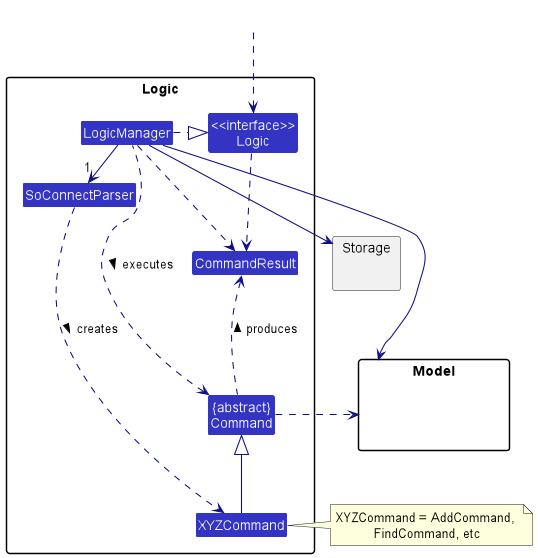
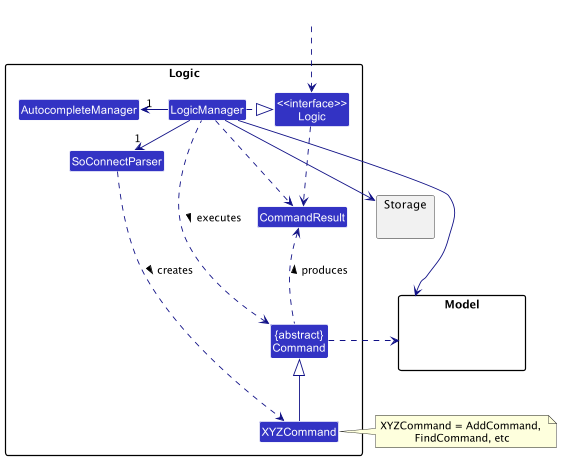
Update DG

diff --git a/docs/DeveloperGuide.md b/docs/DeveloperGuide.md
@@ -45,7 +45,7 @@ Given below is a quick overview of main components and how they interact with ea
 
 The rest of the App consists of four components:
 * [**`UI`**](#ui-component): The UI of the App.
-* [**`Logic`**](#logic-component): The command executor.
+* [**`Logic`**](#logic-component): The command executor and handles autocomplete.
 * [**`Model`**](#model-component): Holds the data of the App in memory.
 * [**`Storage`**](#storage-component): Handles reading and writing data to the hard disk.
 
@@ -82,7 +82,7 @@ The `UI` component does the following:
 * Executes user commands using the `Logic` component.
 * Listens for changes to `Model` data so that the UI can be updated with the modified data.
 * Keeps a reference to the `Logic` component, because the `UI` relies on the `Logic` to execute commands.
-* Depends on some classes in the `Model` component, as it displays `Person` object residing in the `Model`.
+* Depends on some classes in the `Model` component, as it displays `Person` and `Todo` objects residing in the `Model`.
 
 ### Logic component
 
@@ -114,6 +114,14 @@ How the parsing works:
 * When called upon to parse a user command, the `SoConnectParser` class creates an `XYZCommandParser` (`XYZ` is a placeholder for the specific command name e.g., `AddCommandParser`) which uses the other classes shown above to parse the user command and create a `XYZCommand` object (e.g., `AddCommand`) which the `SoConnectParser` returns back as a `Command` object.
 * All `XYZCommandParser` classes (e.g., `AddCommandParser`, `DeleteCommandParser`, etc.) inherit from the `Parser` interface so that they can be treated similarly where possible, e.g., during testing.
 
+Here are the other classes in `Logic` (omiited from the class diagram above) that are used for autocompleting a user's search command:
+
+<img src="images/AutocompleteClasses.png"/>
+
+How the autocompleting works:
+* When called upon to autocomplete a user's search command, the `AutocompleteManager` classes uses the other classes shown above to autocomplete and create a list of autocomplete entries.
+* The list of autocomplete entries will be passed to `CommandBox` for display.
+
 ### Model component
 **API** : [`Model.java`](https://github.com/AY2223S1-CS2103T-W15-1/tp/blob/master/src/main/java/soconnect/model/Model.java)
 
@@ -144,15 +152,6 @@ The `Storage` component does the following:
 * Saves both SoConnect data and user preference data in `json` format, and read them back into corresponding objects.
 * Inherits from `SoConnectStorage`, `TodoListStorage`, and `UserPrefStorage`, which means it can be treated as any one of them (if only one of the functionality is needed).
 * Depends on some classes in the `Model` component (because the `Storage` component's job is to save/retrieve objects that belong to the `Model`).
-
-### Autocomplete component
-**API** : [`Autocomplete.java`](https://github.com/AY2223S1-CS2103T-W15-1/tp/blob/master/src/main/java/seedu/address/logic/autocomplete/Autocomplete.java)
-
-**TODO: Add AutocompleteClassDiagram**
-
-The `Autocomplete` component does the following:
-* Stores the unique names in SoConnect.
-* Depends on some classes in the `Model` component (because the `Autocomplete` component gets a list of unique names from the objects that belong to the `Model`).
 
 ### Common classes
 
@@ -263,8 +262,7 @@ _{more aspects and alternatives to be added}_
 
 #### Implementation
 
-The autocomplete mechanism is facilitated by `AutocompleteManager` and `CommandBox`. `AutocompleteManager` contains a
-`UniquePersonList` which is used to filter and generate a list of autocomplete entries.
+The autocomplete mechanism is facilitated by `AutocompleteManager` and `CommandBox`. T`AutocompleteManager` contains a `UniquePersonList` which is used to filter and generate a list of autocomplete entries. The `CommandBox` calls methods from `AutocompleteManager` to get a list of autocomplete entries.
 
 The main methods in `AutocompleteManager` are:
 - `getAutocompleteEntries(String userInput)` - Gets a list of autocomplete entries.
@@ -279,68 +277,42 @@ autocomplete entries by completing the sentence of the `lastPrefixArgument`.
 The main methods in `CommandBox` are:
 - `setAutocompleteListener()` - A listener that triggers `autocompleteAction` whenever user presses a key on the keyboard.
 - `autocompleteAction()` - Gets a list of autocomplete entries from `AutocompleteManager` and displays it.
-- `populatePopup(List<String> autocompleteEntries, String originalSearchInput)` - Fills up the autocomplete display box
-with the autocomplete entries.
+- `populatePopup(List<String> autocompleteEntries, String originalSearchInput)` - Fills up the autocomplete display box with the autocomplete entries.
 
-This feature is an enhancement on the [**search feature**](#search-feature) (i.e. it only works when user is doing a
-searching). It only autocompletes the last prefix and argument of the user input.
+This feature is an enhancement on the [**search feature**](#search-feature) (i.e. it only works when user is doing a searching). It only autocompletes the last prefix and argument of the user input.
 
 Given below is an example usage scenario and how the autocomplete mechanism behaves at each step.
 
-Step 1. The user enters `search n/John p/12345678 a/N` in the `CommandBox`. The
-`CommandBox#setAutocompleteListener()` calls `CommandBox#autocompleteAction()` a key is pressed when the user types the
-command.
+Step 1. The user enters `search n/John p/12345678 a/N` in the `CommandBox`. The `CommandBox#setAutocompleteListener()` calls `CommandBox#autocompleteAction()` as a key is pressed when the user types the command.
 
-:information_source:**Note:** At this step, the command is not executed yet as the user has not pressed the enter key.
+<div markdown="span" class="alert alert-info">:information_source: **Note:** At this step, the command is not executed yet as the user has not pressed the enter key.
 
-Step 2. The `CommandBox#autocompleteAction()` calls `AutocompleteManager#getAutocompleteEntries(String userInput)` to
-get a list of autocomplete entries. The `AutocompleteManager` will process the command and provides a list of
-autocomplete entries.
+Step 2. The `CommandBox#autocompleteAction()` calls `AutocompleteManager#getAutocompleteEntries(String userInput)` to get a list of autocomplete entries.
 
-Step 3. The `AutocompleteManager#getSearchCommandArguments(String userInput)` will check if the command is a valid
-search command and return the valid search command arguments, otherwise an invalid argument and `AutocompleteManager`
-will return an empty list to `CommandBox`. Hence, for user input `search n/John a/N`, the valid search command
-arguments is ` n/John p/12345678 a/N`.
+Step 3. The `AutocompleteManager#getSearchCommandArguments(String userInput)` will check if the command is a valid search command and return the valid search command arguments, otherwise an invalid argument and `AutocompleteManager`will return an empty list to `CommandBox`. Hence, for user input `search n/John a/N`, the valid search command arguments is `n/John p/12345678 a/N`.
 
-Step 4. The search command arguments will be passed to `AutocompleteManager#getLastPrefixArgument(String argsString,
-Prefix... prefixes` to get the last prefix and argument. If there is no valid last prefix and argument found, it will
-then return an invalid argument and similarly, `AutocompleteManager` returns an empty list to `CommandBox`. Given
-` n/John p/12345678 a/NUS`, the last prefix and argument is `a/N` where `a/` is the prefix and `N` is the argument.
+Step 4. The search command arguments will be passed to `AutocompleteManager#getLastPrefixArgument(String argsString, Prefix... prefixes)` to get the last prefix and argument. If there is no valid last prefix and argument found, it will then return an invalid argument and similarly, `AutocompleteManager` returns an empty list to `CommandBox`. Given `n/John p/12345678 a/NUS`, the last prefix and argument is `a/N` where `a/` is the prefix and `N` is the argument.
 
-Step 5. The `AutocompleteManager#updateFilteredPersonList(String argsString)` takes in the arguments without the last
-prefix and argument - ` n/John p/12345678` and filters the `UniquePersonList` based on the condition and contact
-information available in ` n/John p/12345678`.
+Step 5. The `AutocompleteManager#updateFilteredPersonList(String argsString)` takes in the arguments without the last prefix and argument - `n/John p/12345678` and filters the `UniquePersonList` based on the condition and contact information available in ` n/John p/12345678`.
 
-:information_source:**Note:** For `OR` condition, no filter will be applied to `UniquePersonList` (i.e. this returns
-every person in the list). This is because the user wants to perform an `OR` condition search which means the `Person`
-in `UniquePersonList` only has to satisfy one of the information given. Since we are autocompleting only the last prefix
-and argument, the `Person` in `UniquePersonList` will only need to satisfy the last prefix and argument.
+<div markdown="span" class="alert alert-info">:information_source: **Note:** For `OR` condition, no filter will be applied to `UniquePersonList` (i.e. this returns every person in the list). This is because when the user wants to perform an `OR` condition search, the `Person` in `UniquePersonList` only has to satisfy one of the arguments given. Since we are autocompleting only the last prefix and argument, the `Person` in `UniquePersonList` will only need to satisfy the last prefix and argument.
 
-Step 6. After the `UniquePersonList` is filtered, `AutocompleteManager#generateAutocompleteEntries(String
-argsWithoutLastPrefixArgument, String lastPrefixArgument)` will filter the filtered `UniquePersonList` with the last
-prefix and argument to generate a list of autocomplete entries.
+Step 6. After the `UniquePersonList` is filtered, `AutocompleteManager#generateAutocompleteEntries(String argsWithoutLastPrefixArgument, String lastPrefixArgument)` will filter the filtered `UniquePersonList` with the last prefix and argument to generate a list of autocomplete entries.
 
-For example, the filtered `UniquePersonList` has `Person1 - {n/John Loh, p/12345678, a/NUS}`, `Person2 - {n/John Teo,
-p/12345678, a/NTU}` and `Person3 - {n/John Wong, p/12345678, a/SMU}`. A filter and autocomplete will be done using the
-last prefix and argument - `a/N`, so this will filter out `Person3` as the person's information `a/SMU` does not
-match with `a/N`. After filtering, the prefix and argument will be autocompleted and the list of autocomplete entries
-will be return to `CommandBox`. The list of autocomplete entries will look like this:
+For example, the filtered `UniquePersonList` has `Person1 - {n/John Loh, p/12345678, a/NUS}`, `Person2 - {n/John Teo, p/12345678, a/NTU}` and `Person3 - {n/John Wong, p/12345678, a/SMU}`. A filter and autocomplete will be done using the last prefix and argument - `a/N`, so this will filter out `Person3` as the person's address `a/SMU` does not match with `a/N`. After filtering, the prefix and argument will be autocompleted and the list of autocomplete entries will be return to `CommandBox`.
 
-```
-search n/John p/12345678 a/NUS
-search n/John p/12345678 a/NTU
-```
-
-:information_source:**Note:** The example, `Person1 - {n/John Loh, p/12345678, a/NUS}`, used above means the
+<div markdown="span" class="alert alert-info">:information_source: **Note:** The example, `Person1 - {n/John Loh, p/12345678, a/NUS}`, used above means the
 `UniquePersonList` has a `Person` with information `n/John Loh`, `p/12345678` and `a/NUS`.
 
-Step 7. The `CommandBox#autocompleteAction` will pass the list of autocomplete entries to
-`CommandBox#populatePopup(List<String> autocompleteEntries, String originalSearchInput)` to populate the autocomplete
-display box with the autocomplete entries and show the user the list of autocompleted entries.
+Step 7. The `CommandBox#autocompleteAction` will pass the list of autocomplete entries to `CommandBox#populatePopup(List<String> autocompleteEntries, String originalSearchInput)` to populate the autocomplete display box with the autocomplete entries and display to the user.
 
-The following activity diagram summarizes what happens when a user types a command in the `CommandBox`.
+The following activity diagram summarizes what happens when a user types a command in the `CommandBox`:
 
-{insert activity diagram here}
+![AutocompleteActivityDiagram](images/AutocompleteActivityDiagram.png)
+
+The following sequence diagram shows how the autocomplete operation works:
+
+![AutocompleteSequenceDiagram](images/AutocompleteSequenceDiagram.png)
 
 #### Design consideration
 
@@ -356,9 +328,6 @@ autocomplete entries.
 the trie data structure.
     * Pros: More efficient way to searching a string.
     * Cons: More memory to store the strings. Have to refactor and modify the existing class and methods.
-
-
-_{more aspects and alternatives to be added}_
 
 ### Tag adding feature
 
@@ -672,24 +641,6 @@ Priorities: High (must have) - `* * *`, Medium (nice to have) - `* *`, Low (unli
     * 3a1. SoConnect shows aan error message.
 
       Use case resumes at step 2.
-
-**Use case: Autocomplete a word**
-
-**MSS**
-
-1.  User inputs word.
-2.  SoConnect gives a selection of possible words.
-3.  User chooses the right word.
-4.  SoConnect changes inputted word to the chosen word.
-
-    Use case ends.
-
-**Extension**
-*  1a. The word changes.
-
-    * 1a1. SoConnect updates the selection of possible words.
-
-      Use case resumes at step 3.
 
 **Use case: Sort by name**
 
